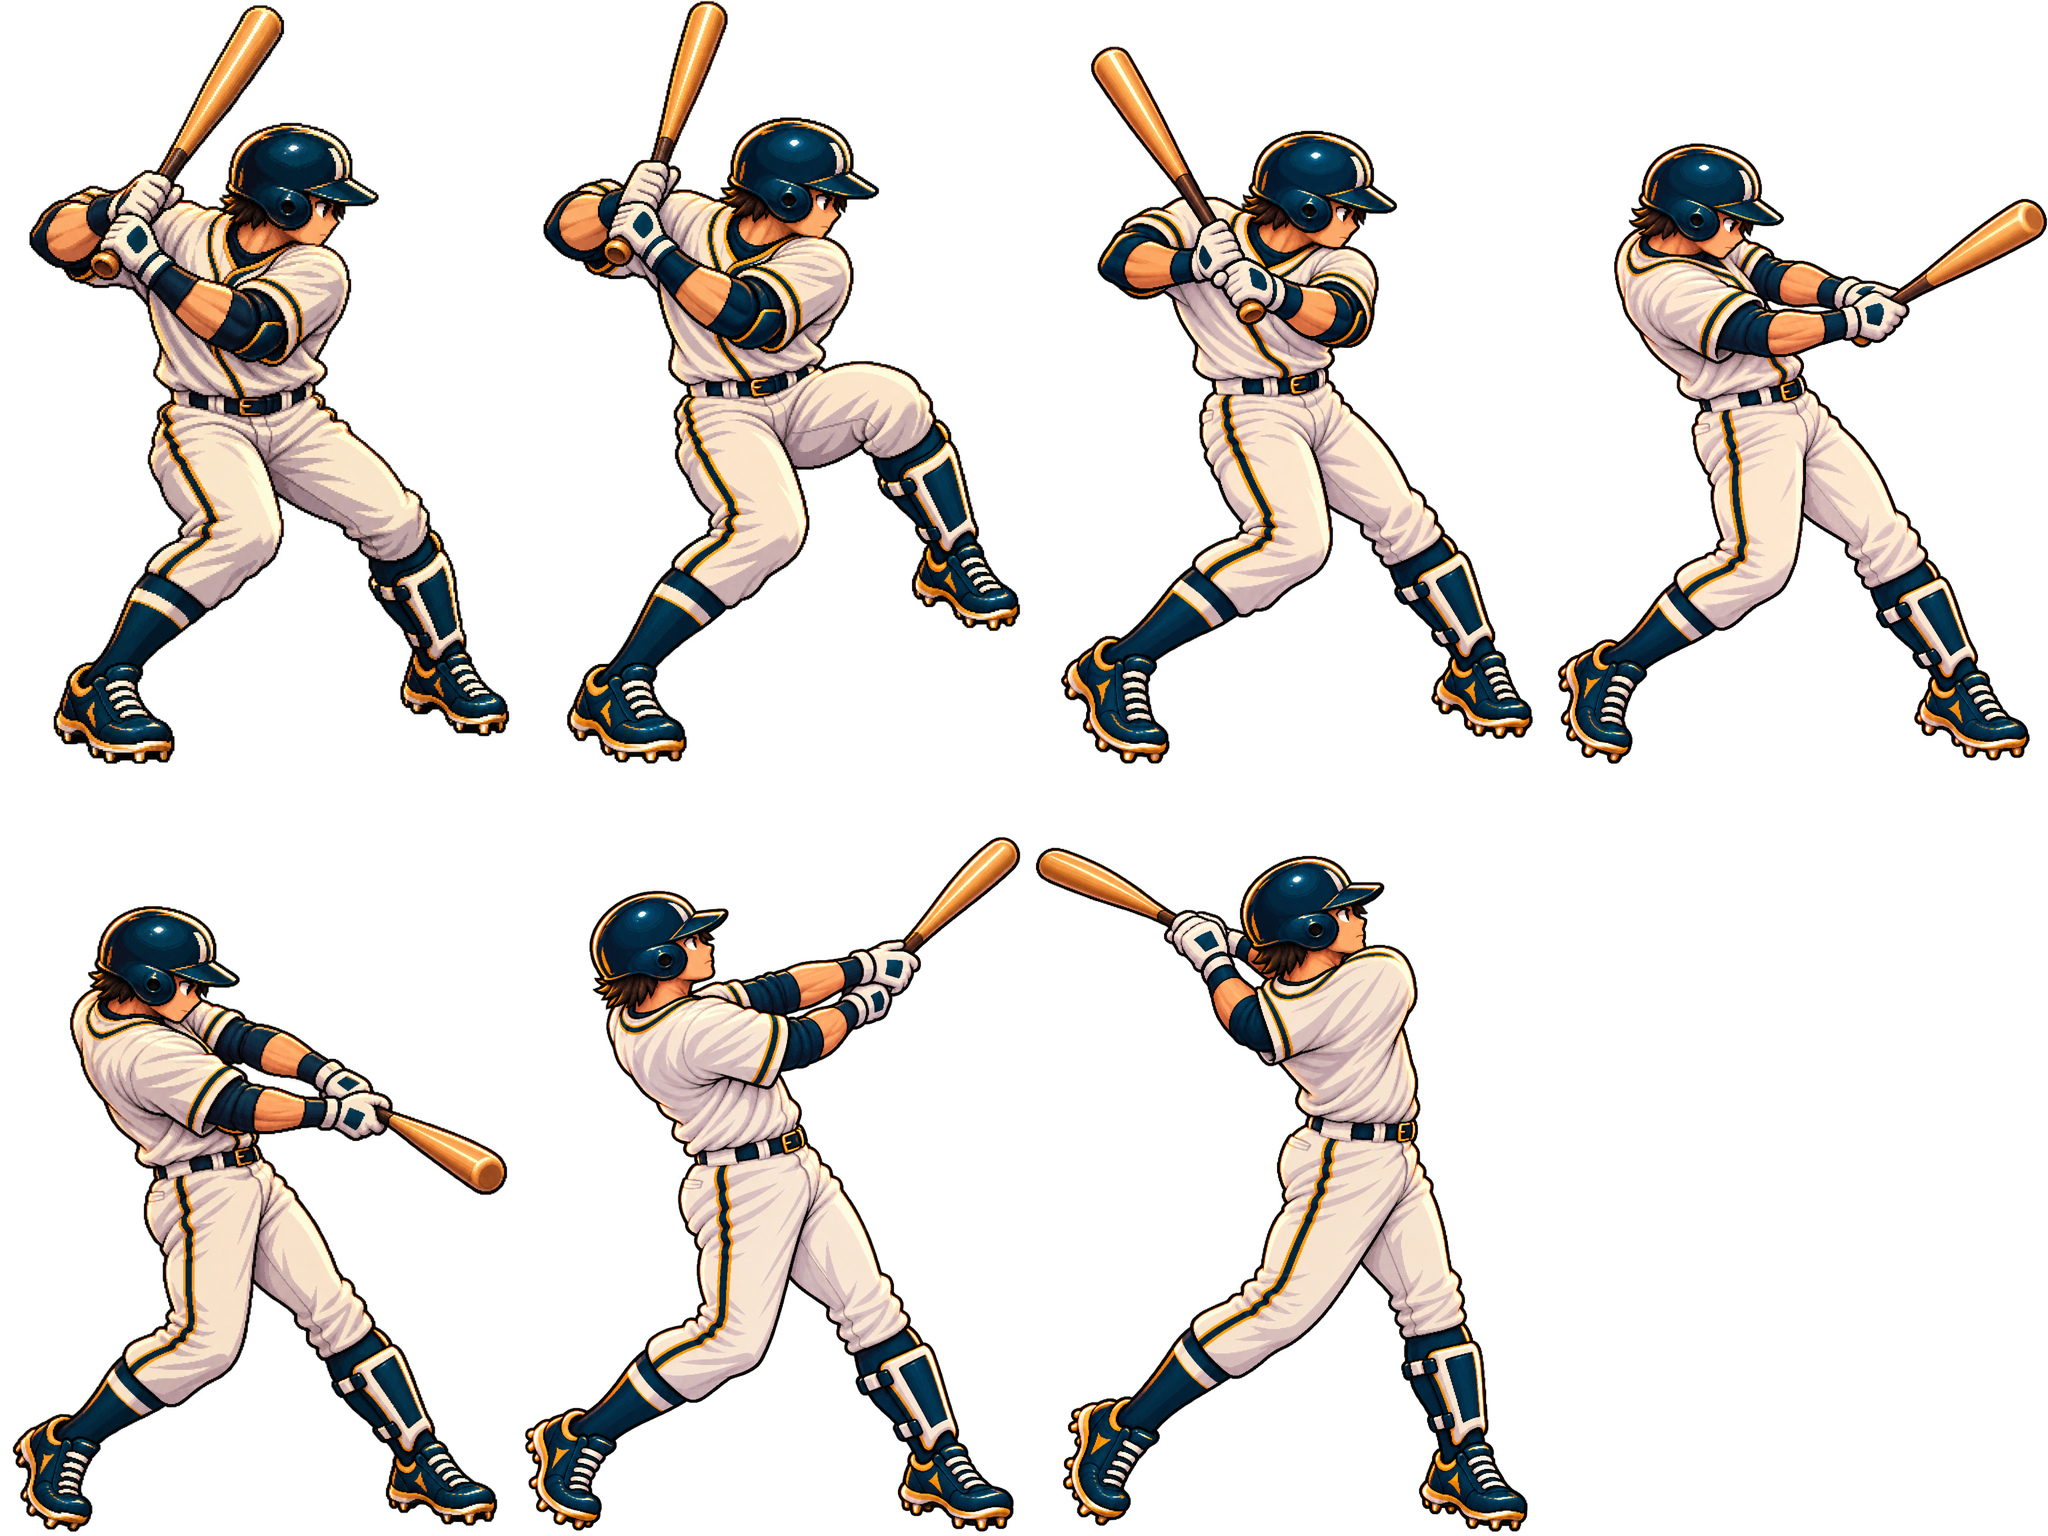
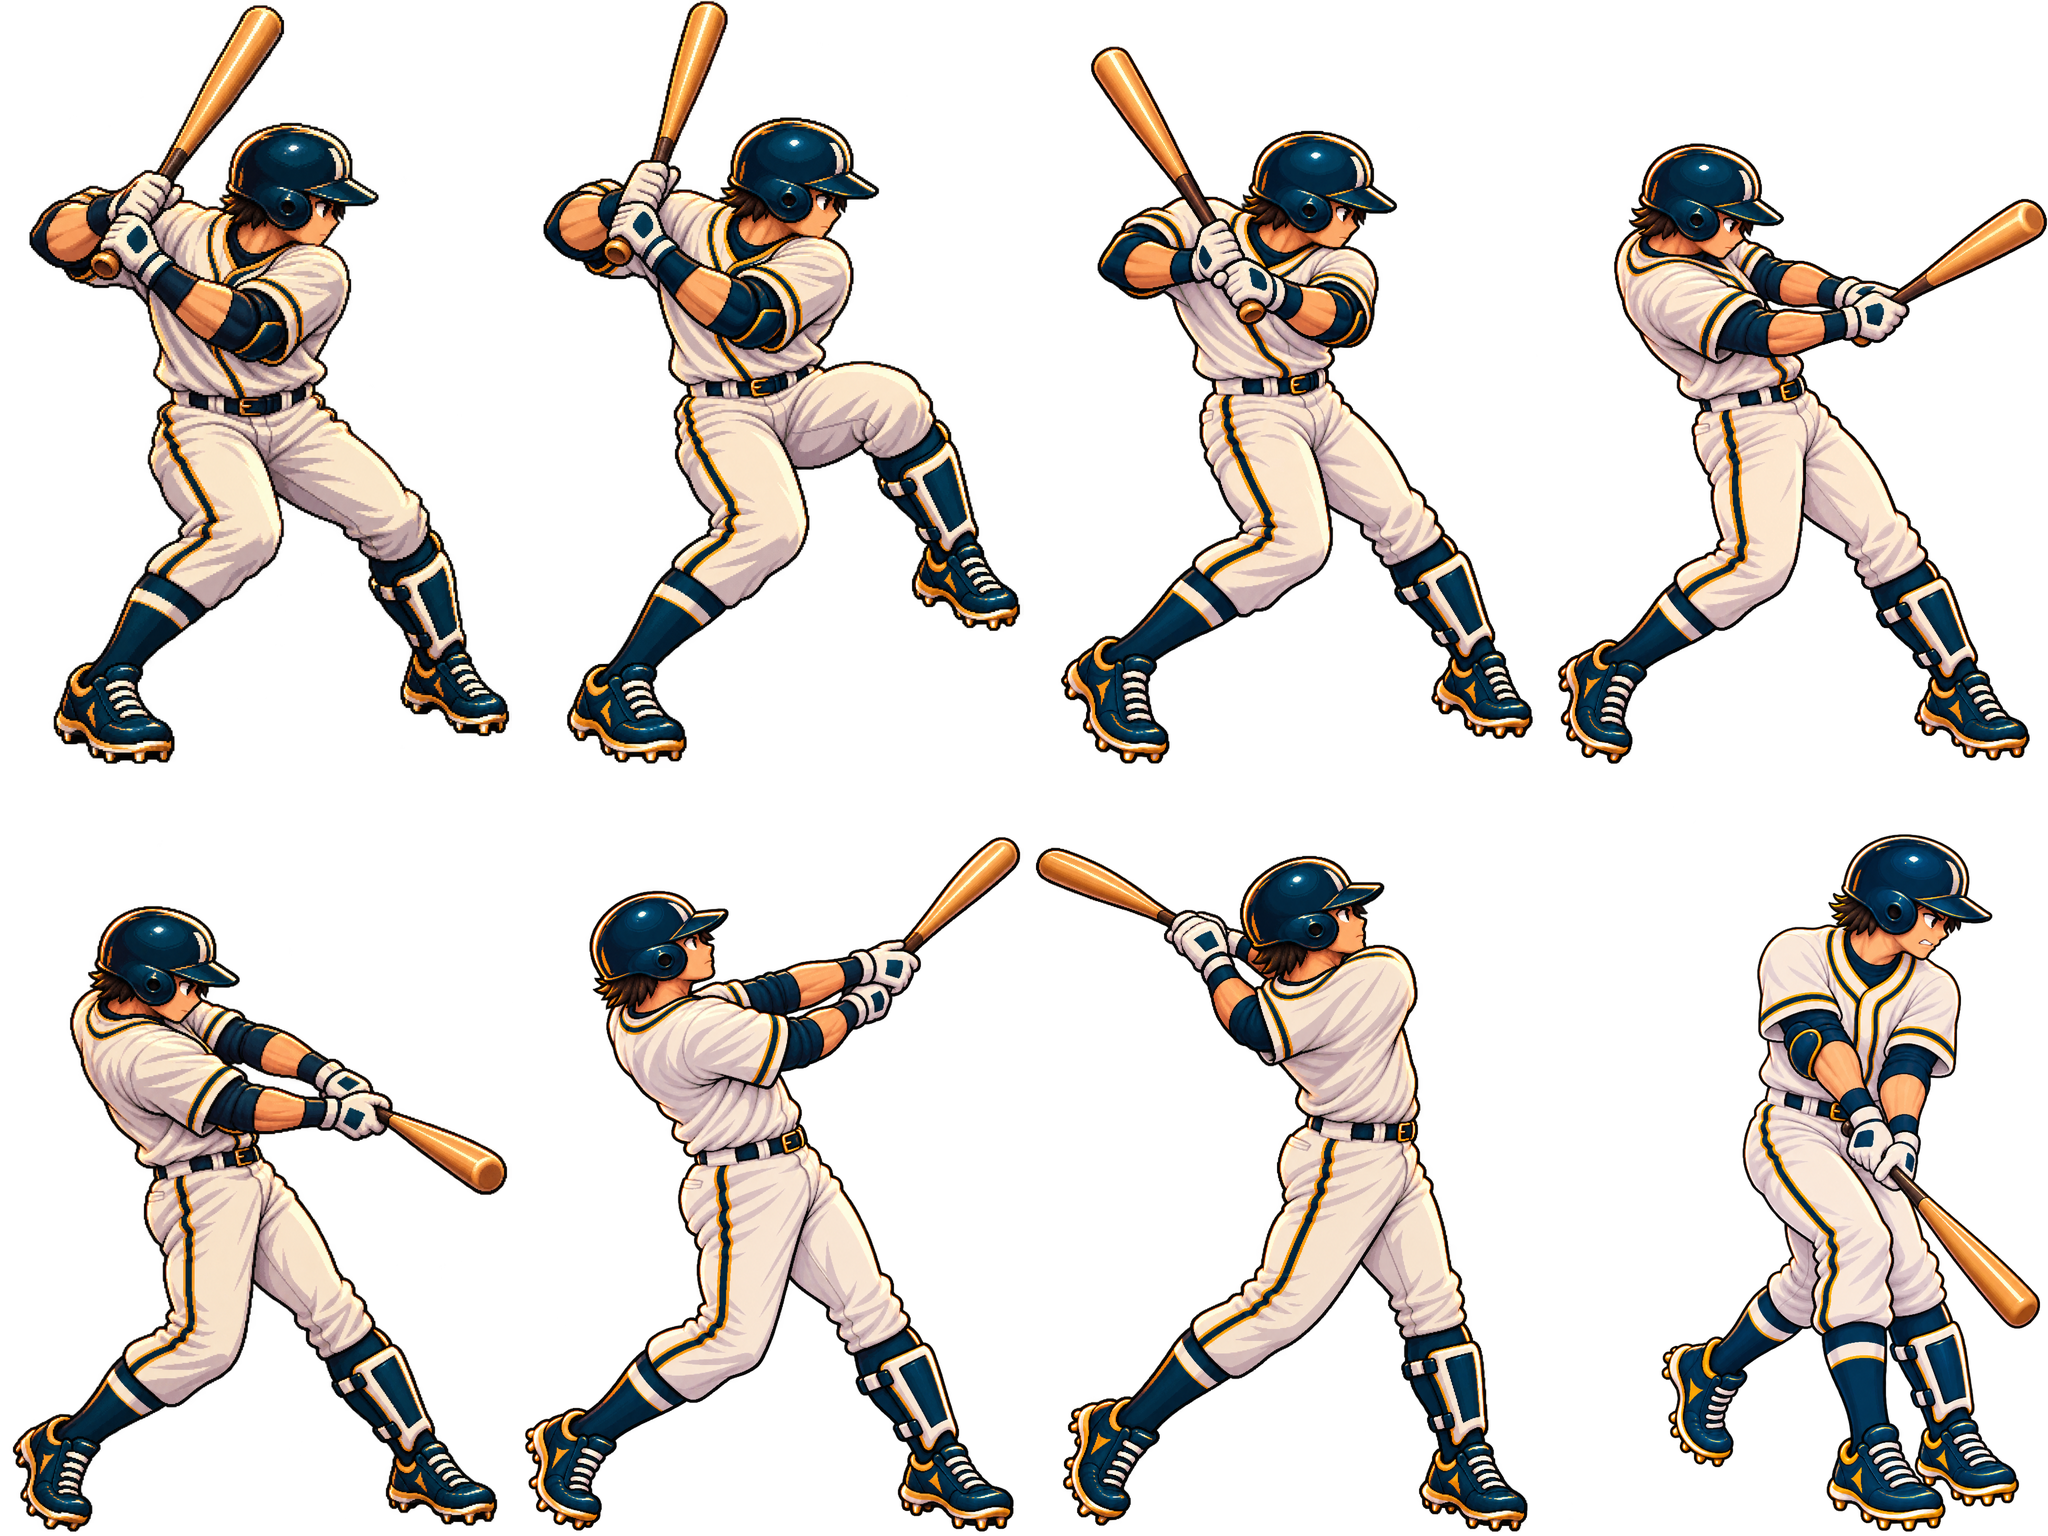
feat(batter): add ump-cam whiff recovery pose

Changed region(s): [[0.8125, 0.5312, 1.0, 1.0]]

diff --git a/src/duel/batter-v15.js b/src/duel/batter-v15.js
@@ -1,7 +1,8 @@
 /* V15 hero batter (assets/production-art/battle-portrait-v15, see its README): the target mockup's
-   over-the-shoulder adult batter, 7 keyposes on one baseline-aligned 4x2 sheet.
-   The runtime still plays the ten-pose batterMotionV3 contract; poses without their own drawing
-   reuse the nearest keypose (trigger holds LOAD, the late follow/finish/settle hold FOLLOW-THROUGH).
+   over-the-shoulder adult batter, 8 keyposes on one baseline-aligned 4x2 sheet.
+   The runtime plays the ten-pose batterMotionV3 contract plus a miss-only recovery pose.
+   Poses without their own drawing reuse the nearest keypose (trigger holds LOAD;
+   the late hit follow/finish/settle hold FOLLOW-THROUGH).
    HD illustration, not 1:1 pixel art: it is sampled smooth when scaled down.
 
    #103 M09: the runtime sheet is the master at half size (512x768 cells, 2048x1536). The batter is
@@ -20,7 +21,7 @@ export const BATTER_V15_SHEET={
   cols:4,rows:2,smooth:true,
   /* feet touch the ground 1527/1536 down each cell (manifest.json baseline_px) */
   baseline:1527/1536,
-  order:{ready:0,load:1,trigger:1,'swing-start':2,'swing-mid':3,contact:4,'follow-through-early':5,'follow-through-late':6,finish:6,settle:6},
+  order:{ready:0,load:1,trigger:1,'swing-start':2,'swing-mid':3,contact:4,'follow-through-early':5,'follow-through-late':6,finish:6,settle:6,'miss-recovery':7},
 };
 
 /* one pose of a sheet as CSS background values (the DOM fallback) */

diff --git a/tests/batter-motion-v3.test.js b/tests/batter-motion-v3.test.js
@@ -37,9 +37,14 @@ describe('batter motion loop v3',()=>{
 
   it('misses still swing through both bridges without showing false contact',()=>{
     const miss={grade:'near-miss',motion:{duration:1500,impactAt:300,settleAt:1100,freeze:16,slowmo:380}};
-    const poses=batterMotionV3Timeline(miss).map(x=>x.pose);
+    const timeline=batterMotionV3Timeline(miss),poses=timeline.map(x=>x.pose);
     expect(poses).toContain('swing-mid');
     expect(poses).toContain('follow-through-late');
+    expect(poses).toContain('miss-recovery');
     expect(poses).not.toContain('contact');
+    const recovery=timeline.find(x=>x.pose==='miss-recovery');
+    expect(batterMotionV3PoseAt(miss,recovery.at+1)).toBe('miss-recovery');
+    expect(batterMotionV3PoseAt(miss,miss.motion.duration)).toBe('ready');
+    expect(batterMotionV3Timeline(solid).map(x=>x.pose)).not.toContain('miss-recovery');
   });
 });

diff --git a/tests/v15-battle-camera.test.js b/tests/v15-battle-camera.test.js
@@ -42,7 +42,10 @@ describe('V15 portrait battle camera matches the target mockup',()=>{
     const poses=['ready','load','trigger','swing-start','swing-mid','contact','follow-through-early','follow-through-late','finish','settle'];
     for(const p of poses)expect(v.order[p],p).toBeLessThan(m.batter.frames.length);
     expect(v.order.contact).toBe(m.batter.frames.findIndex(f=>f.file==='batter-contact.png'));
+    expect(v.order['miss-recovery']).toBe(m.batter.frames.findIndex(f=>f.file==='batter-miss-recovery.png'));
+    expect(m.batter.frames[v.order['miss-recovery']].offset_y_in_sheet).toBe(41);
     const app=fs.readFileSync('src/duel/App.jsx','utf8');
     expect(app).toContain('batterSheet={BATTER_V15_SHEET}');
+    expect(app).toContain("'miss-recovery':batterRebootSettleV3");
   });
 });

diff --git a/src/duel/App.jsx b/src/duel/App.jsx
@@ -169,6 +169,7 @@ const BATTER_REBOOT_V3={
   'follow-through-late':batterRebootFollowLateV3,
   finish:batterRebootFinish,
   settle:batterRebootSettleV3,
+  'miss-recovery':batterRebootSettleV3,
 };
 const ACTOR_ASSETS=[...new Set([...BATTER_SWING_V2,...BATTER_MISS_V2,...PITCHER_PITCH_V2,...PITCHER_K_V2,batterSwingV4,pitcherPitchV4,batterHomerHeroV3,...Object.values(BATTER_HERO_V5),...Object.values(BATTER_REBOOT_V3),...Object.values(PITCHER_RELEASE_V3)])];
 /* the legacy actor frames only play on the tutorial (v9) screens; the main run (v10) is all ballpark,

diff --git a/src/duel/batterMotionV3.js b/src/duel/batterMotionV3.js
@@ -72,8 +72,7 @@ export function batterMotionV3Timeline(shot){
       {pose:'swing-mid',at:swingMidAt},
       {pose:'follow-through-early',at:rounded(followEarlyAt)},
       {pose:'follow-through-late',at:rounded(followLateAt)},
-      {pose:'finish',at:rounded(finishAt)},
-      {pose:'settle',at:rounded(settleAt)},
+      {pose:'miss-recovery',at:rounded(finishAt)},
       {pose:'ready',at:rounded(duration)},
     ];
   }

diff --git a/scripts/build-batter-miss-recovery.py b/scripts/build-batter-miss-recovery.py
@@ -1,0 +1,41 @@
+"""Place the authored miss-recovery pose in V15's unused eighth sheet cell."""
+from pathlib import Path
+
+from PIL import Image
+
+
+ROOT = Path(__file__).resolve().parents[1]
+ART = ROOT / "assets" / "production-art" / "battle-portrait-v15"
+SOURCE = ART / "batter-miss-recovery.png"
+BASELINE = 1527
+CELL = (1024, 1536)
+
+
+def main():
+    pose = Image.open(SOURCE).convert("RGBA")
+    if pose.size != CELL:
+        raise ValueError(f"Expected {CELL}, got {pose.size}")
+    alpha = pose.getchannel("A")
+    opaque = alpha.point(lambda value: 255 if value > 128 else 0).getbbox()
+    if not opaque:
+        raise ValueError("Miss pose has no visible actor")
+    shift = BASELINE - opaque[3]
+    if shift < 0 or opaque[1] + shift < 0:
+        raise ValueError("Miss pose cannot fit the shared baseline")
+    aligned = Image.new("RGBA", CELL)
+    aligned.paste(pose, (0, shift))
+
+    for name, scale in (("batter-sheet.png", 1), ("batter-sheet-runtime.png", 2)):
+        path = ART / name
+        sheet = Image.open(path).convert("RGBA")
+        expected = (4 * CELL[0] // scale, 2 * CELL[1] // scale)
+        if sheet.size != expected:
+            raise ValueError(f"Expected {name} to be {expected}, got {sheet.size}")
+        cell = aligned if scale == 1 else aligned.resize((512, 768), Image.Resampling.LANCZOS)
+        sheet.paste(cell, (3 * cell.width, cell.height))
+        sheet.save(path, optimize=True)
+    print(f"Aligned miss-recovery feet at {BASELINE}px; source shift {shift}px")
+
+
+if __name__ == "__main__":
+    main()

diff --git a/scripts/optimize-runtime-art.py b/scripts/optimize-runtime-art.py
@@ -39,6 +39,7 @@ RULES = [
     (r'^production-art/mockup-world-v15/map-node-.*\.png$', dict(long=256, q=85)),  # ~60px nodes
     (r'^production-art/mockup-world-v15/frame-reward-.*\.png$', dict(long=512, q=90)),  # card-size frame overlay
     (r'^production-art/mockup-world-v15/.*\.png$',  dict(keep=True, q=80)),  # full-screen keyart / map plate
+    (r'^pitcher-study-v2/source/.*-release\.png$', dict(long=800, q=84)),  # pitcher portrait cutouts
     (r'^pitcher-mobs-v1/.*\.png$',                  dict(long=720, q=85)),   # transparent roster cutouts
     (r'^duel/stadium.*\.png$',                      dict(keep=True, q=80)),  # full-screen stadium plates
 ]

diff --git a/assets/production-art/battle-portrait-v15/README.md b/assets/production-art/battle-portrait-v15/README.md
@@ -7,7 +7,8 @@
 | 자산 | 파일 | 용도 |
 | --- | --- | --- |
 | 타자 키포즈 7장 | `batter-ready.png`, `batter-load.png`, `batter-swing-start.png`, `batter-swing-mid.png`, `batter-contact.png`, `batter-follow-early.png`, `batter-follow-through.png` | 같은 인물의 준비 → 코일 → 스윙 → 임팩트 → 팔로스루 |
-| 타자 시트·미리보기 | `batter-sheet.png`, `batter-animatic.webp` | 1024×1536 셀 7개, 4열×2행, 왼쪽부터 시간순 |
+| 타자 시트·미리보기 | `batter-sheet.png`, `batter-animatic.webp` | 1024×1536 셀 8개, 4열×2행. 마지막 셀은 헛스윙 전용 |
+| 타자 헛스윙 회복 | `batter-miss-recovery.png` | 심판캠 구도의 #9 타자 헛스윙 후 배트를 낮추는 포즈. 시트의 여덟 번째 셀에 연결 |
 | 레드 러시 키포즈 3장 | `red-rush-windup.png`, `red-rush-stride.png`, `red-rush-release.png` | 기존 여성 투수의 와인드업 → 스트라이드 → 릴리스 |
 | 투수 시트·미리보기 | `red-rush-sheet.png`, `red-rush-animatic.webp` | 1024×1536 셀 3개 |
 | 배경 | `stadium-portrait.png` | 타자석 시점의 도시 야구장, 문자·UI 없는 불투명 플레이트 |
@@ -31,3 +32,9 @@
 ## 확인 결과와 남은 작업
 
 모든 캐릭터/VFX PNG는 알파 채널이 있고 경기장만 불투명하다. 프레임 크기와 불투명 영역은 `manifest.json`에 기록했다. 기존 화면에 실제 연결하거나 QUALITY-BAR 통과 판정을 하지는 않았다. 7장/3장 키포즈만으로는 완성된 고프레임 애니메이션이 아니므로, 추가 인비트윈 및 412×743/844×390/1440×900 런타임 검수가 필요하다.
+
+## 2026-09-30 헛스윙 포즈 추가
+
+- [MLB 심판캠 타격 영상](https://www.mlb.com/video/shohei-ohtani-s-hr-through-the-eyes-of-ump-cam)의 준비·스윙 구간을 화면에서 확인했다. 카메라 가까운 타자가 크게 보이고 두 손과 배트가 전경을 통과한다는 구도만 참고했으며, 영상 프레임을 에셋에 복사하지 않았다.
+- 기존 #9 외형을 유지한 새 포즈를 `batter-miss-recovery.png`에 보존했다. 원본은 1024×1536 RGBA이고, 128 초과 알파의 발끝을 1527px 공통 기준선에 맞춰 41px 내렸다. `scripts/build-batter-miss-recovery.py`가 두 시트의 빈 여덟 번째 칸을 재생성한다.
+- V10 헛스윙 결과에서만 이 포즈를 보여준다. 안타의 contact·finish 시퀀스와 전투 판정은 그대로다. 412×915·375×667 DOM 대체 렌더러에서 배트·몸통·앞발 크롭과 오류 없음을 확인했다. 실제 Pixi 재생의 연속 동작 및 10화면 품질 판정은 별도 검수가 남는다.
